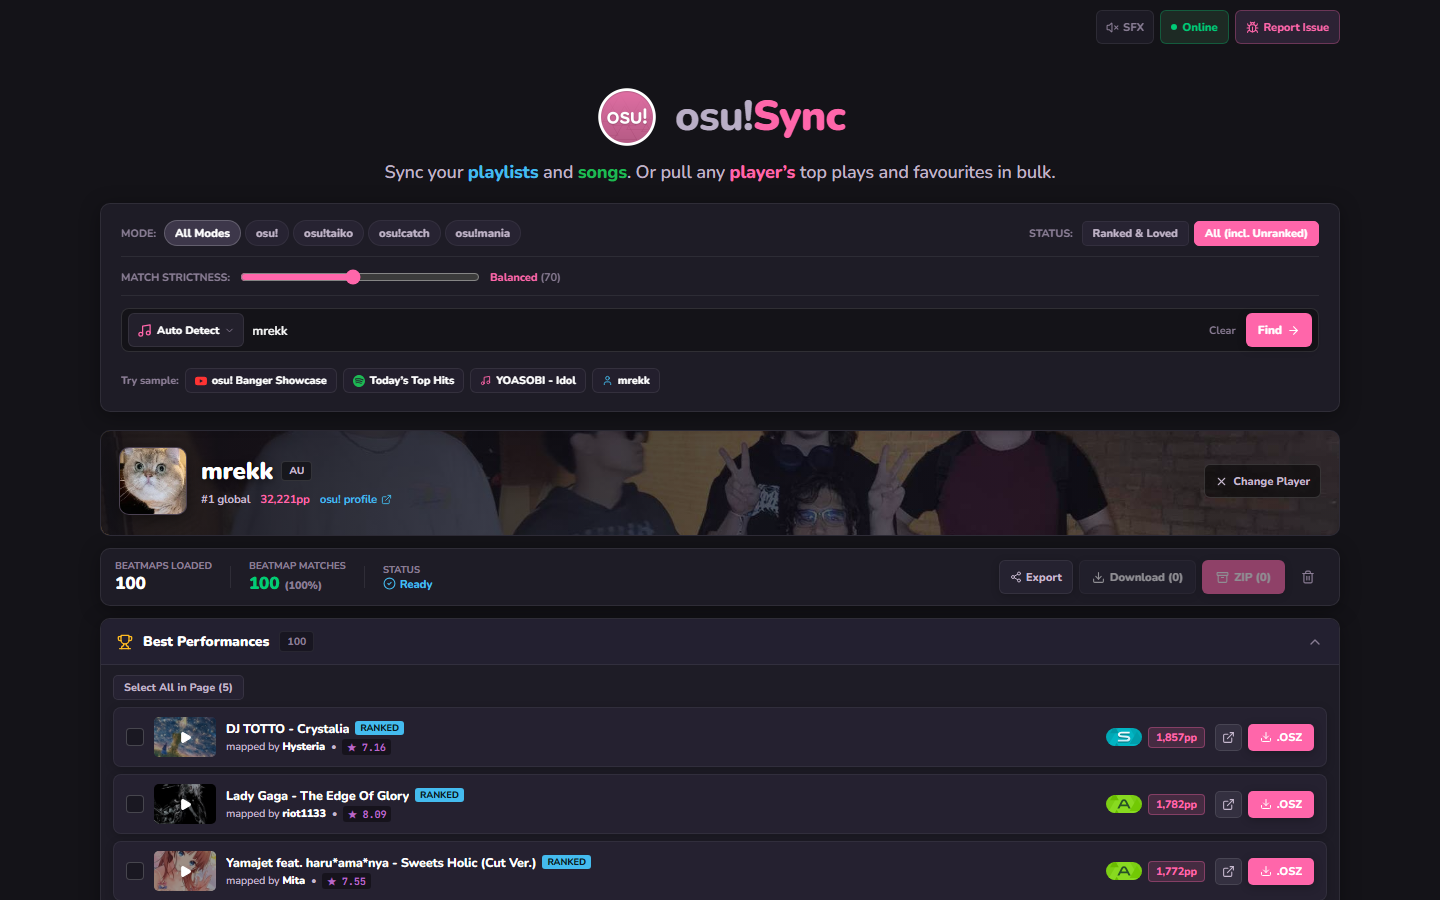
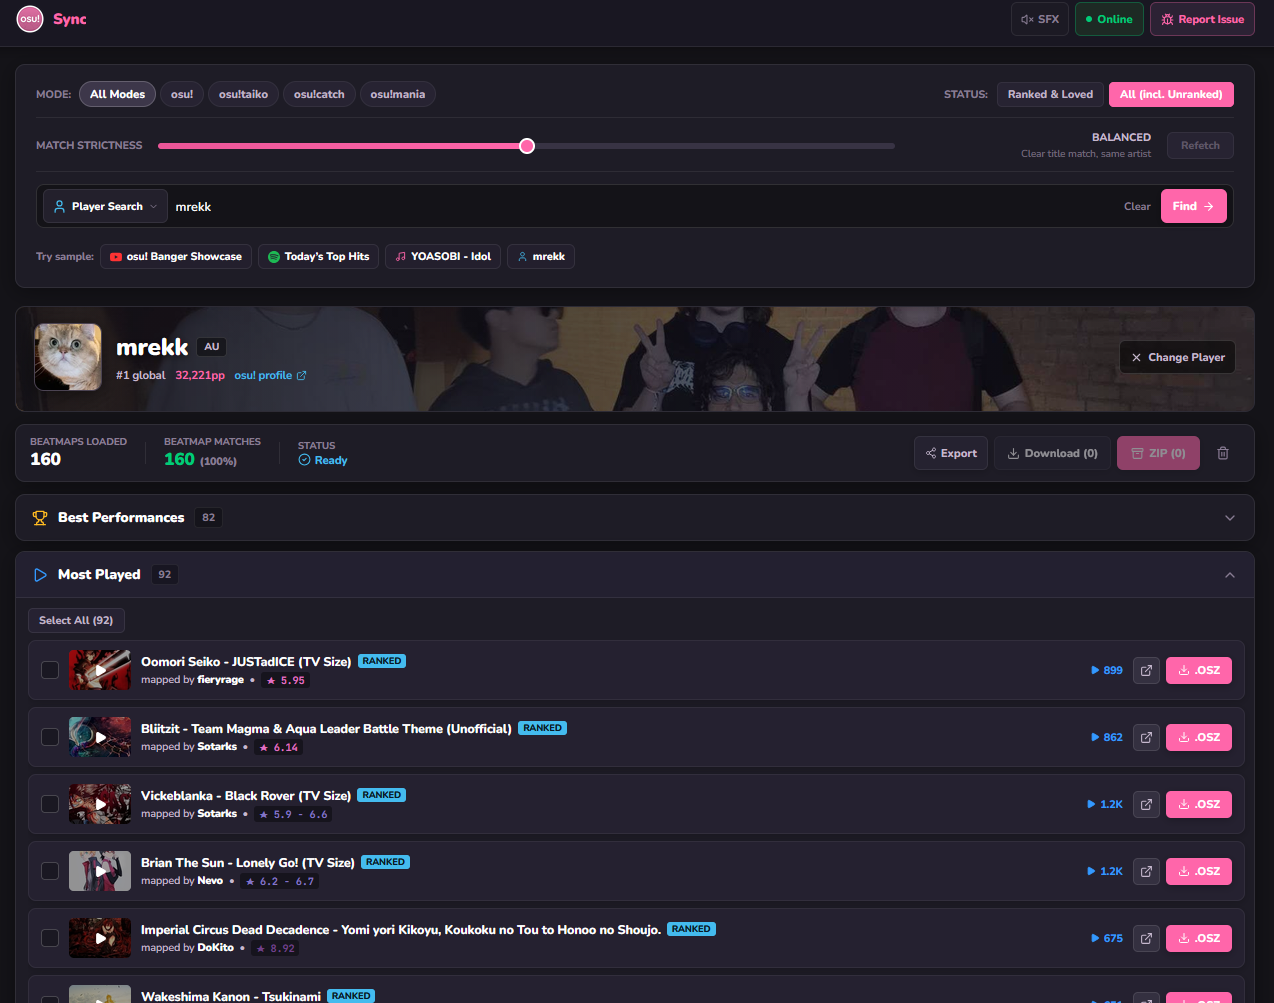
docs(readme): centered header, screenshots, shorter matching section
Give the README a centered title, tagline and website/stars badges, add a
Screenshots section with the playlist and player views, and rewrite "How
matching works" as seven plain steps instead of 93 lines of rationale.

diff --git a/README.md b/README.md
@@ -1,8 +1,31 @@
-# osu!Sync
+<div align="center">
 
-Turn playlists, songs, or any osu! player's top plays and favourites into downloadable osu! beatmaps — no manual searching, no API key of your own required.
+# [osu!Sync](https://github.com/sidlikesgrapess/osu-playlist-sync)
+
+*Turn playlists, songs, or any osu! player's top plays and favourites into downloadable osu! beatmaps, no manual searching, no API key of your own required*
+
+[![Website](https://img.shields.io/badge/Website-osu--playlist--sync.vercel.app-1e90ff?style=flat&logo=vercel&logoColor=white)](https://osu-playlist-sync.vercel.app/)
+[![Stars](https://img.shields.io/github/stars/sidlikesgrapess/osu-playlist-sync?style=flat&logo=github&label=Stars&color=181717)](https://github.com/sidlikesgrapess/osu-playlist-sync/stargazers)
+
+</div>
 
 Point it at a **YouTube / Spotify / Apple Music** playlist, a single song, or an **osu! player's profile**, and it finds the matching beatmapsets and lets you download them one at a time or as a ZIP.
+
+---
+
+## Screenshots
+
+<div align="center">
+
+<img src="images/desktop_playlist_search_results.png" alt="A Spotify playlist matched against osu!, showing each song's beatmap, editable query, and the songs that were rejected or flagged for a mismatched artist" width="100%">
+
+<sub>A Spotify playlist matched against osu!: every track gets a beatmap, an editable query, or a reason it was refused.</sub>
+
+<img src="images/desktop_mrekk_result.png" alt="An osu! player profile loaded in the app, with rank and pp on the banner and collapsible Best Performances, Most Played and Favourites sections" width="100%">
+
+<sub>Any player's profile, with Best Performances, Most Played and Favourites ready to tick and download.</sub>
+
+</div>
 
 ---
 
@@ -72,15 +95,6 @@ Open [http://localhost:3000](http://localhost:3000).
 
 ---
 
-## Production Deployment (Vercel)
-
-1. Push this repository to GitHub.
-2. Import the project on [Vercel](https://vercel.com).
-3. In **Project Settings → Environment Variables**, set `OSU_CLIENT_ID`, `OSU_CLIENT_SECRET`, and optionally `DEFAULT_MIRROR`.
-4. In your [osu! OAuth Settings](https://osu.ppy.sh/home/account/edit#oauth), make sure the application uses the **Client Credentials** grant type.
-
----
-
 ## Architecture & Data Flow
 
 ```mermaid
@@ -104,94 +118,47 @@ All osu! API calls run through a single client-credentials token (`/lib/osu.js`)
 
 ## How matching works
 
-### The problem
+osu! has more than one song called *Monster*. Rank on title alone and you get handed a
+stranger's song, and because the title matched perfectly, no "be stricter" setting can
+remove it. So the rule is: **the artist has to match, or you get nothing.**
 
-osu! has more than one song called *Monster*. It has several called *Faded*, *Alone* and
-*Sunflower*. A matcher that ranks on title alone will confidently hand you a stranger's song
-and call it a match — and because the title matched *perfectly*, no "be stricter" setting can
-filter it out. Being stricter only throws away correct results; the wrong one scores at the
-very top either way.
+### The pipeline
 
-So the rule here is simple: **the artist has to match, or you get nothing.**
+1. **Clean the title.** `Nightcore`, `Official Video`, `+HDHR` and friends are stripped so
+   the search returns something at all.
+2. **Search a few ways.** Artist + title, the raw text, the bare title. Everything found
+   goes into one pile, and osu!'s own ranking is ignored.
+3. **Score every candidate.** Mostly title similarity, with an exact title beating a partial
+   one, plus small nudges for ranked and popular maps.
+4. **Check the artist.** Exact name, a spelling osu!'s own maps prove is the same person
+   (`かめりあ` is `Camellia`), reordered or romanised names, or a credit in the tags.
+5. **Refuse a wrong artist outright.** It is a gate, not a penalty: a perfect title can
+   never buy back the wrong artist.
+6. **But only trust names worth trusting.** Spotify and Apple give a real artist. YouTube
+   gives a channel that might be `Nightcore Gaming`, so it is checked against osu! before it
+   is allowed to reject anything.
+7. **Cut by strictness, then explain.** The slider trades how many results you see against
+   how sure they are. If nothing survives, you are told which kind of nothing: wrong artist,
+   artist not on osu! at all, or no match.
 
-### What that means in practice
+Rejected maps are still shown, labelled and unticked, so they can never join a bulk ZIP by
+accident.
 
-When osu! has your song but under a different artist, you don't get a wrong beatmap and you
-don't get a bare "not found" either. You get told which one it is:
+### Does it work?
 
-| What happened | What you see |
-| --- | --- |
-| The song is on osu!, by someone else | *Could not find one by Justin Bieber. Closest match:* — followed by the beatmap it did find |
-| The artist has no maps on osu! at all | *HUGEL, SOLTO (FR) has no beatmaps on osu!* |
-| Nothing matched the title either | *No matching beatmapset found* |
+`bench/` replays captured osu! responses with human-labelled answers, so changes are measured
+rather than guessed. On 37 deliberately hard fixtures:
 
-**Flagging isn't hiding.** The nearest beatmap is still shown as a normal row — cover art,
-star rating, the alternative-version picker, download, all of it — introduced by a line
-saying no map by that artist exists. What the gate changes is that it arrives **unticked**,
-so it never joins a bulk ZIP unless you pick it yourself. You get the information and the
-choice; what you don't get is a stranger's song quietly presented as a confident match.
-
-The **Match Strictness** slider still works, but it no longer quietly controls whether you get
-someone else's song. It trades how many results you see against how sure they are; artist
-correctness is not on that dial.
-
-### Deciding whether two artist names are the same person
-
-This is the hard half, because the same artist is written a dozen ways. `ヨルシカ` and
-`Yorushika`. `米津玄師` and `Yonezu Kenshi`. `Tuyu` and `Tsuyu`. `Steve Lacy` and
-`SteveLacyVEVO`. A cover where osu! credits the singer and the original artist is only in the
-tags. All of those have to still count as a match, or being strict just breaks the app.
-
-Rather than guess with string similarity, the matcher asks osu! *what it has by that artist*
-and reads the answer off the corpus. Every beatmapset carries both a romanised and a native
-artist field, so **osu! is already a dictionary of artist aliases** — `かめりあ` is known to be
-`Camellia` because other maps spell it both ways. No hand-written alias table, and it works
-for artists nobody thought to list.
-
-Names are checked in order — exact match, a corpus-learned alias, whole-word containment,
-romanisation folding (`Tsuyu`/`Tuyu`), artist credited in the tags — and the first one that
-fits wins. If none fit, it's a different artist.
-
-### Not all artist names are trustworthy
-
-A Spotify or Apple Music track comes with a real artist field. A YouTube video comes with a
-channel name, which might be `Nightcore Gaming`. So how much the artist is trusted depends on
-where it came from: **a trusted artist may reject a match, an untrusted one may only confirm
-one.** An unverifiable artist is checked against osu! first — `Nightcore Gaming` has 4 maps, so
-it isn't a real artist and isn't allowed to vouch for anything. That check is skipped whenever
-a result already names the artist exactly, which keeps it to about 0.2 extra API calls per
-track.
-
-### Does it actually work?
-
-`bench/` is a benchmark that replays captured osu! API responses through the matcher, so
-changes are measured rather than guessed. Verdicts on which candidates are really by the
-right artist are human-labelled, because letting the matcher grade its own homework would
-measure nothing.
-
-On 37 fixtures chosen to be hard — J-pop romanisations, colliding titles, covers, noisy
-YouTube titles, artists absent from osu!, obscure artists whose songs share a title with a
-famous one:
-
-| | correct match | **wrong artist** | returned nothing, correctly |
+| | correct match | **wrong artist** | correctly returned nothing |
 | --- | --- | --- | --- |
 | Before | 78.4% | **2.7%** | 16.2% |
 | After | **83.8%** | **0%** | 16.2% |
 
-The percentage isn't the point — the *shape* is. Sweeping the strictness slider from loosest
-to strictest, the old matcher returns its wrong answer at **every** setting, because that
-answer scored at the very top of the range. Being stricter cost correct results and removed
-none of the wrong one. The new matcher holds at zero across the whole sweep.
+The old matcher returned its wrong answer at *every* strictness setting; the new one stays at
+zero across the whole sweep. On 50 real Spotify tracks it returns 33 maps where the old one
+returned 34, and the one it dropped was wrong.
 
-Checked against 50 real tracks from a live Spotify playlist, the old matcher returned 34
-beatmaps and the new one returns 33. The one it stopped returning was *"Have you been naughty
-or nice? (Game Ver.)" by Flambe!*, offered for Morgan Wallen's *Been By Now*.
+> The fixtures over-represent hard cases, so 83.8% is a target to beat, not everyday
+> accuracy. Only the wrong-artist column is meant to stay at zero.
 
-> These fixtures deliberately over-represent hard cases, so 83.8% is a number to improve
-> against — not an estimate of everyday accuracy. Fixtures are added whenever a real
-> mismatch turns up, so the percentage moves as the suite gets harder; only the
-> wrong-artist column is meant to stay at zero.
-
-Run it yourself with `npm run bench`; details in [`bench/README.md`](bench/README.md).
-
----
+Run it with `npm run bench`; details in [`bench/README.md`](bench/README.md).
